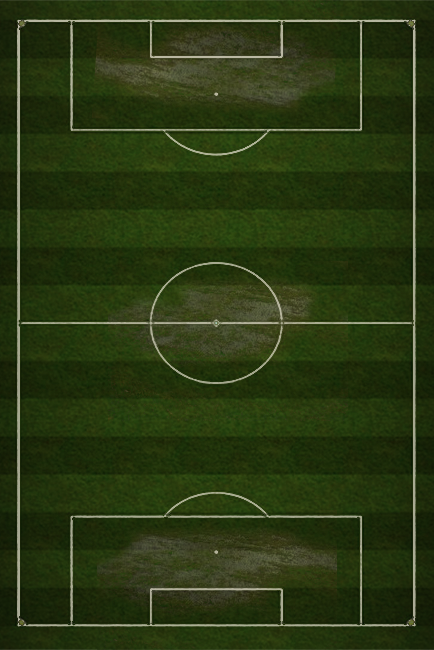
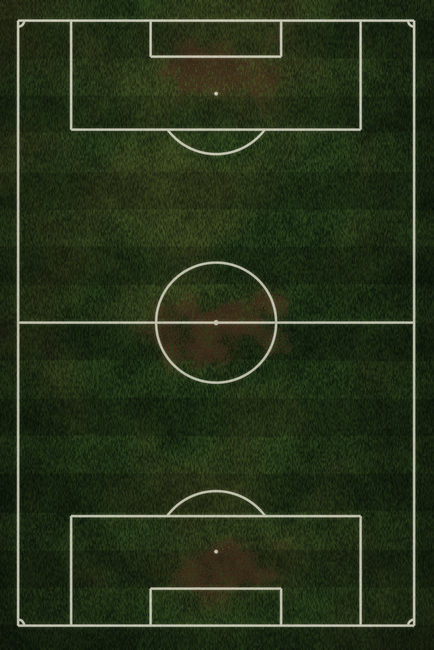
Escalar time: gramados gerados do zero em alta qualidade
Claude-Session: https://claude.ai/code/session_01NT3z8AUSAUJ34zvmXJU9Cf

diff --git a/tools/escalar/campos.py b/tools/escalar/campos.py
@@ -1,61 +1,151 @@
-# Gera os campos "noite de estreia" (aicons/campo*.png) a partir dos originais do jogo.
-# Uso: python3 campos.py <pasta com os campo*.png originais> <pasta de saida>
-# - tira as linhas, escurece e esfria a grama (gramado de jogo noturno),
-# - mantem as listras de corte e as falhas de grama (Ruim/Precaria),
-# - luz de refletor vinda dos cantos e vinheta nas bordas,
-# - linhas redesenhadas em creme suave a partir da mascara do campo2 (Excelente).
+# Gera os gramados da tela Escalar time (aicons/campo*.png, 434x650) do zero, em 4x,
+# com a mesma geometria de linhas do jogo original:
+#   campo2 = Excelente, campo = Muito boa, campo3 = Ruim, campo4 = Precaria.
+# Grama com textura de folhas em varias escalas, listras de corte, luz de refletor,
+# vinheta, linhas creme nitidas e, nos estados ruins, falhas de terra e grama seca.
+# Uso: python3 campos.py <pasta de saida>
 import sys, os
 import numpy as np
-from PIL import Image, ImageFilter
+from PIL import Image
 
-src, out = sys.argv[1], sys.argv[2]
+out = sys.argv[1]
 os.makedirs(out, exist_ok=True)
-
-def arr(p):
-    return np.asarray(Image.open(os.path.join(src, p)).convert('RGBA')).astype(np.float32) / 255.0
-
-def lum(a):
-    return 0.2126 * a[..., 0] + 0.7152 * a[..., 1] + 0.0722 * a[..., 2]
-
-# mascara das linhas: pixels bem mais claros que a vizinhanca no campo2
-ref = arr('campo2.png')
-L = lum(ref)
-viz = np.asarray(Image.fromarray((L * 255).astype(np.uint8)).filter(ImageFilter.MedianFilter(7))).astype(np.float32) / 255
-linha = np.clip((L - viz - 0.10) / 0.25, 0, 1)
-H, W = L.shape
+W0, H0, K = 434, 650, 4
+W, H = W0 * K, H0 * K
 yy, xx = np.mgrid[0:H, 0:W].astype(np.float32)
+X, Y = xx / K, yy / K  # coordenadas em pixels do tamanho final
 
+
+def ruido(sw, sh, semente):
+    """Ruido suave: grade aleatoria sw x sh ampliada com bicubico, valores 0..1."""
+    r = np.random.default_rng(semente).random((sh, sw)).astype(np.float32)
+    im = Image.fromarray((r * 255).astype(np.uint8)).resize((W, H), Image.BICUBIC)
+    return np.asarray(im).astype(np.float32) / 255
+
+
+def fbm(base_w, base_h, oitavas, semente, ganho=0.5):
+    soma, amp, tot = 0, 1.0, 0
+    for o in range(oitavas):
+        soma = soma + amp * ruido(base_w * 2 ** o, base_h * 2 ** o, semente + o)
+        tot += amp
+        amp *= ganho
+    return soma / tot
+
+
+def suave(a, b, t):
+    t = np.clip((t - a) / (b - a), 0, 1)
+    return t * t * (3 - 2 * t)
+
+
+# --------------------------------------------------------------- textura comum
+folhas = ruido(W // 3, H // 9, 11)            # folhas: riscos finos no sentido do corte
+folhas2 = ruido(W // 2, H // 2, 12)           # granulado
+tufos = fbm(22, 33, 4, 20)                    # tufos medios
+manchas = fbm(4, 6, 3, 40)                    # variacao grande
+grama = 0.42 * folhas + 0.18 * folhas2 + 0.25 * tufos + 0.15 * manchas
+
+# listras de corte (17 faixas na largura do campo, borda levemente ondulada)
+ond = (fbm(3, 40, 2, 60) - 0.5) * 3.0
+faixa = np.floor((Y - 20 + ond) / (605 / 16)).astype(int)
+listra = (faixa % 2).astype(np.float32)
+
+# luz de refletores nos quatro cantos + vinheta
 def refletor(cx, cy, r):
-    d = np.sqrt((xx - cx) ** 2 + (yy - cy) ** 2) / r
+    d = np.sqrt((X - cx) ** 2 + (Y - cy) ** 2) / r
     return np.clip(1 - d, 0, 1) ** 2
 
-luz = 0.55 * refletor(-30, -40, 520) + 0.55 * refletor(W + 30, -40, 520) \
-    + 0.35 * refletor(-30, H + 40, 480) + 0.35 * refletor(W + 30, H + 40, 480)
-nx, ny = (xx / W - 0.5) * 2, (yy / H - 0.5) * 2
-vinheta = np.clip(1 - 0.38 * (nx ** 2 * 0.9 + ny ** 2 * 0.6), 0, 1)
+luz = 0.6 * refletor(-30, -40, 540) + 0.6 * refletor(W0 + 30, -40, 540) \
+    + 0.4 * refletor(-30, H0 + 40, 500) + 0.4 * refletor(W0 + 30, H0 + 40, 500)
+nx, ny = (X / W0 - 0.5) * 2, (Y / H0 - 0.5) * 2
+vinheta = np.clip(1 - 0.34 * (nx ** 2 * 0.9 + ny ** 2 * 0.55), 0, 1)
 
-for nome in ('campo2.png', 'campo.png', 'campo3.png', 'campo4.png'):
-    a = arr(nome)
-    rgb = a[..., :3]
-    # tira as linhas: troca pelos vizinhos (mediana)
-    im = Image.fromarray((rgb * 255).astype(np.uint8))
-    fundo = np.asarray(im.filter(ImageFilter.MedianFilter(9))).astype(np.float32) / 255
-    m = np.clip(linha * 1.6, 0, 1)[..., None]
-    m = np.asarray(Image.fromarray((m[..., 0] * 255).astype(np.uint8)).filter(ImageFilter.MaxFilter(3))).astype(np.float32)[..., None] / 255
-    rgb = rgb * (1 - m) + fundo * m
-    # grama de noite: menos amarelo, mais escura, contraste das listras um pouco maior
-    l = lum(rgb)[..., None]
-    rgb = l + (rgb - l) * 0.95
-    rgb = rgb * np.array([0.70, 0.86, 0.70], np.float32)
-    media = rgb.mean(axis=(0, 1), keepdims=True)
-    rgb = media + (rgb - media) * 1.6
-    rgb = rgb * (0.66 + 0.34 * luz[..., None]) * vinheta[..., None]
-    rgb += np.array([1.0, 0.85, 0.55], np.float32) * (0.05 * luz[..., None])  # brilho quente
-    # linhas creme
-    cor = np.array([0.95, 0.93, 0.86], np.float32)
-    al = (np.clip(linha * 1.15, 0, 1) * (0.62 + 0.25 * luz))[..., None]
-    rgb = rgb * (1 - al) + cor * al
+# --------------------------------------------------------------- linhas
+LW = 1.25  # meia espessura em px finais
+
+
+def seg_h(y, x0, x1):
+    d = np.where((X >= x0) & (X <= x1), np.abs(Y - y), 1e9)
+    return d
+
+def seg_v(x, y0, y1):
+    return np.where((Y >= y0) & (Y <= y1), np.abs(X - x), 1e9)
+
+def circ(cx, cy, r, cond=None):
+    d = np.abs(np.sqrt((X - cx) ** 2 + (Y - cy) ** 2) - r)
+    return d if cond is None else np.where(cond, d, 1e9)
+
+def ponto(cx, cy, r):
+    return np.maximum(np.sqrt((X - cx) ** 2 + (Y - cy) ** 2) - r + LW, 0)
+
+x0, x1, y0, y1 = 18, 414, 20.5, 625.5
+cx, cy = 216, 322.5
+d = np.minimum.reduce([
+    seg_h(y0, x0, x1), seg_h(y1, x0, x1), seg_v(x0, y0, y1), seg_v(x1, y0, y1),
+    seg_h(cy, x0, x1), circ(cx, cy, 60), ponto(cx, cy, 2.6),
+    # grande area e pequena area (cima)
+    seg_v(71, y0, 129.5), seg_v(360.5, y0, 129.5), seg_h(129.5, 71, 360.5),
+    seg_v(150.5, y0, 56.5), seg_v(281, y0, 56.5), seg_h(56.5, 150.5, 281),
+    ponto(cx, 93.5, 1.9), circ(cx, 93.5, 60.5, Y > 129.5),
+    # baixo
+    seg_v(71, 516, y1), seg_v(360.5, 516, y1), seg_h(516, 71, 360.5),
+    seg_v(150.5, 588.5, y1), seg_v(281, 588.5, y1), seg_h(588.5, 150.5, 281),
+    ponto(cx, 551.5, 1.9), circ(cx, 551.5, 60.5, Y < 516),
+    # escanteios
+    circ(x0, y0, 6, (X >= x0) & (Y >= y0)), circ(x1, y0, 6, (X <= x1) & (Y >= y0)),
+    circ(x0, y1, 6, (X >= x0) & (Y <= y1)), circ(x1, y1, 6, (X <= x1) & (Y <= y1)),
+])
+linha = 1 - suave(LW - 0.45, LW + 0.45, d)
+linha_brilho = 1 - suave(LW, LW + 3.5, d)  # leve halo de tinta
+
+# --------------------------------------------------------------- estados
+# base escura (cor da grama) e clara (topo das folhas), por estado
+ESTADOS = {
+    'campo2.png': dict(escuro=(0.035, 0.11, 0.045), claro=(0.17, 0.40, 0.13), listra=0.22, seca=0.0, terra=0.0),
+    'campo.png':  dict(escuro=(0.04, 0.105, 0.045), claro=(0.18, 0.34, 0.13), listra=0.17, seca=0.12, terra=0.0),
+    'campo3.png': dict(escuro=(0.05, 0.10, 0.045), claro=(0.21, 0.32, 0.13), listra=0.13, seca=0.35, terra=0.55),
+    'campo4.png': dict(escuro=(0.06, 0.095, 0.045), claro=(0.25, 0.30, 0.13), listra=0.09, seca=0.65, terra=1.0),
+}
+seco_cor = np.array([0.30, 0.27, 0.13], np.float32)
+terra_cor = np.array([0.23, 0.17, 0.10], np.float32)
+
+# onde o campo mais gasta: areas, meio-campo e (no precario) corredores
+def blob(cx, cy, rx, ry):
+    return np.exp(-(((X - cx) / rx) ** 2 + ((Y - cy) / ry) ** 2))
+
+gasto = np.maximum.reduce([blob(216, 70, 95, 45), blob(216, 575, 95, 45), blob(216, 322, 85, 55)])
+gasto_largo = np.maximum.reduce([gasto * 1.15, 0.55 * blob(216, 200, 60, 70), 0.55 * blob(216, 445, 60, 70),
+                                 0.45 * blob(60, 322, 40, 140), 0.45 * blob(372, 322, 40, 140)])
+borda = fbm(10, 15, 4, 80)
+
+for nome, e in ESTADOS.items():
+    esc, cla = np.array(e['escuro'], np.float32), np.array(e['claro'], np.float32)
+    t = np.clip(grama * (1 + e['listra'] * (listra - 0.5) * 0.8), 0, 1)
+    t = np.clip((t - 0.22) / 0.62, 0, 1) ** 1.1
+    rgb = esc + (cla - esc) * t[..., None]
+    rgb *= (1 + e['listra'] * 0.9 * (listra[..., None] - 0.5))
+    # grama seca (amarelada) em manchas
+    if e['seca'] > 0:
+        s = e['seca'] * suave(0.45, 0.75, manchas * 0.6 + borda * 0.4 + 0.25 * gasto_largo)
+        seca = seco_cor * (0.55 + 0.7 * t[..., None])
+        rgb = rgb * (1 - s[..., None]) + seca * s[..., None]
+    # falhas de terra
+    if e['terra'] > 0:
+        area = gasto if e['terra'] < 1 else gasto_largo
+        v = area * e['terra'] * 0.8 + borda * 0.35 + tufos * 0.25 + folhas2 * 0.12 - 0.12
+        tm = suave(0.50, 0.58, v)
+        # tufos de grama que sobraram dentro da falha
+        tm *= 1 - 0.85 * suave(0.55, 0.75, folhas * 0.7 + tufos * 0.5 - 0.1)
+        terra = terra_cor * (0.6 + 0.5 * folhas2[..., None] + 0.4 * tufos[..., None])
+        rgb = rgb * (1 - tm[..., None]) + terra * tm[..., None]
+    # luz da noite
+    rgb = rgb * (0.92 + 0.55 * luz[..., None]) * vinheta[..., None]
+    rgb += np.array([1.0, 0.86, 0.55], np.float32) * (0.035 * luz[..., None])
+    # linhas
+    cor = np.array([0.93, 0.92, 0.85], np.float32) * (0.88 + 0.12 * folhas2[..., None])
+    al = linha * (0.80 + 0.15 * luz)
+    rgb = rgb + np.array([0.9, 0.9, 0.8], np.float32) * 0.05 * linha_brilho[..., None]
+    rgb = rgb * (1 - al[..., None]) + cor * al[..., None]
     rgb = np.clip(rgb, 0, 1)
-    res = np.dstack([rgb, a[..., 3:4]])
-    Image.fromarray((res * 255).round().astype(np.uint8), 'RGBA').save(os.path.join(out, nome), optimize=True)
+    im = Image.fromarray((rgb * 255).round().astype(np.uint8), 'RGB').resize((W0, H0), Image.LANCZOS)
+    im.convert('RGBA').save(os.path.join(out, nome), optimize=True)
     print('ok', nome)
